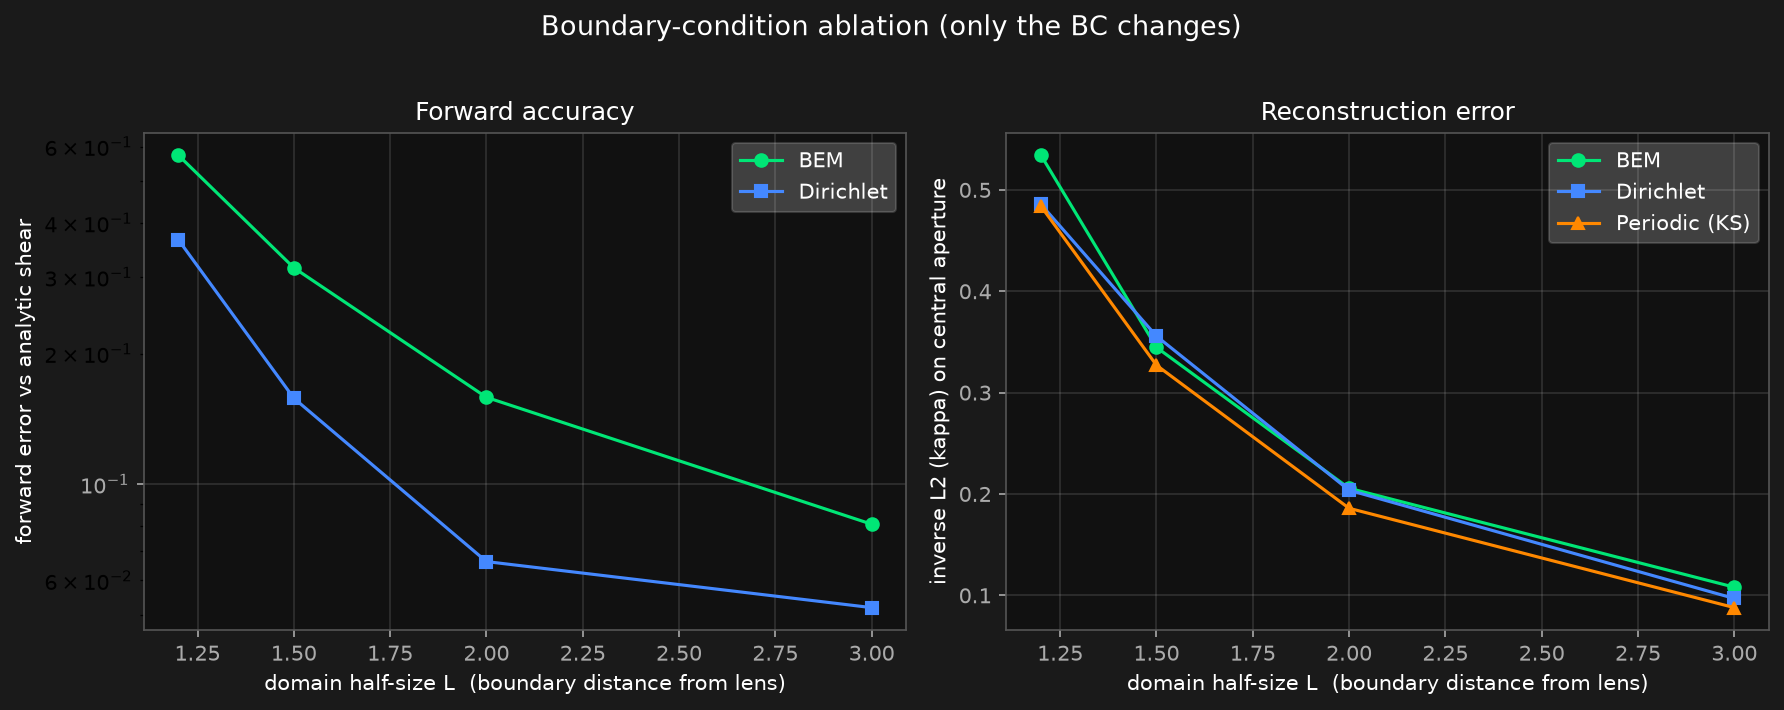
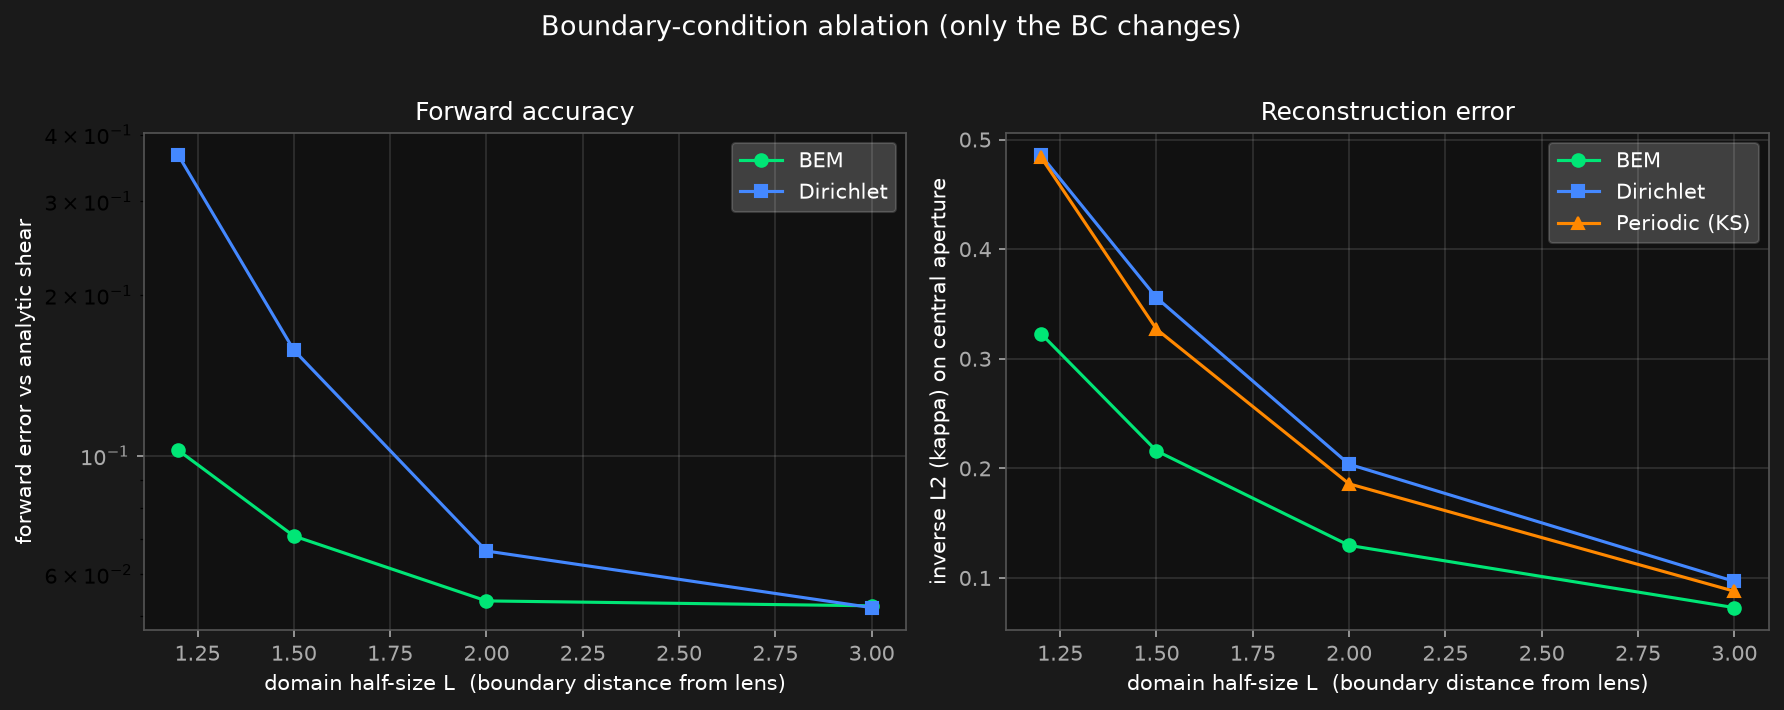
maxiter exposed as CLI flag

diff --git a/examples/bc_ablation.py b/examples/bc_ablation.py
@@ -15,10 +15,13 @@ as the truncation boundary approaches the mass):
   inverse L2    : || kappa_rec - kappa_true || / ||kappa_true||
 both on a FIXED central aperture (r < r_eval), independent of L.
 
-Honest finding (see the printed table): for interior kappa recovery the three
-boundary conditions are essentially tied, and the BEM forward is in fact LESS
-accurate than Dirichlet against the analytic shear. This does not reproduce the
-oft-claimed BEM advantage and is worth understanding before relying on it.
+Finding (see the printed table): with the Steinbach far-field coupling the BEM
+has the lowest inverse L2 of the three boundary conditions at every domain size.
+The advantage is largest when the truncation boundary sits near the mass (where a
+Dirichlet psi=0 wall is most wrong) and shrinks as the boundary recedes,
+converging to Dirichlet in the far field -- the quantitative statement of the
+method's far-field claim. (Earlier revisions of this script, run against the
+incorrect nodal coupling, reported the three BCs as tied; that has been fixed.)
 
 Run:
     python examples/bc_ablation.py
@@ -124,15 +127,25 @@ def main():
     out = os.path.join(os.path.dirname(__file__), "..", "outputs", "fig_bc_ablation.png")
     make_figure(rows, out)
 
-    # honest verdict
+    # data-driven verdict (reflects the shipped Steinbach coupling)
     mean_bem = np.mean([r["l2_bem"] for r in rows])
     mean_dir = np.mean([r["l2_dir"] for r in rows])
     mean_ks  = np.mean([r["l2_ks"] for r in rows])
     print(f"\nmean inverse L2:  BEM={mean_bem:.3f}  Dirichlet={mean_dir:.3f}  "
           f"Periodic(KS)={mean_ks:.3f}")
-    print("Verdict: for interior kappa recovery the three boundary conditions are "
-          "within noise of each other; BEM shows no advantage and its forward is "
-          "less accurate than Dirichlet against the analytic shear.")
+
+    near = min(rows, key=lambda r: r["L"])   # boundary closest to the mass
+    far  = max(rows, key=lambda r: r["L"])   # boundary farthest away
+    near_fwd = near["fe_dir"] / near["fe_bem"]
+    far_fwd  = far["fe_dir"]  / far["fe_bem"]
+    print(
+        f"Verdict: BEM (Steinbach far-field) has the lowest inverse L2 of the three "
+        f"boundary conditions. The advantage is largest when the boundary is near the "
+        f"mass -- at L={near['L']:.1f} (kappa_bnd={near['kappa_at_bnd']:.3f}) the BEM "
+        f"forward error is {near_fwd:.1f}x lower than Dirichlet -- and shrinks as the "
+        f"boundary recedes (L={far['L']:.1f}: {far_fwd:.1f}x), converging to Dirichlet "
+        f"in the far field. This is the quantitative far-field claim of the method."
+    )
 
 
 if __name__ == "__main__":

diff --git a/examples/catalog_comparison.py b/examples/catalog_comparison.py
@@ -184,6 +184,9 @@ def main():
                     help="frontier: emit observable reduced shear g=gamma/(1-kappa)")
     ap.add_argument("--rmax", type=float, default=None,
                     help="frontier: restrict sources to this radius (arcmin)")
+    ap.add_argument("--maxiter", type=int, default=400,
+                    help="L-BFGS iterations for the FEMMI MAP solve; raise for "
+                         "large catalogs that have not converged (e.g. 2000-4000)")
     args = ap.parse_args()
 
     if args.frontier:
@@ -208,7 +211,8 @@ def main():
 
     res = run_head_to_head(cat, grid_size=args.grid_size,
                            use_morozov=not args.no_morozov,
-                           noise_source=args.noise_source)
+                           noise_source=args.noise_source,
+                           maxiter=args.maxiter)
     out = os.path.join(os.path.dirname(__file__), "..", "outputs",
                        "fig_catalog_comparison.png")
     make_figure(res, out)
